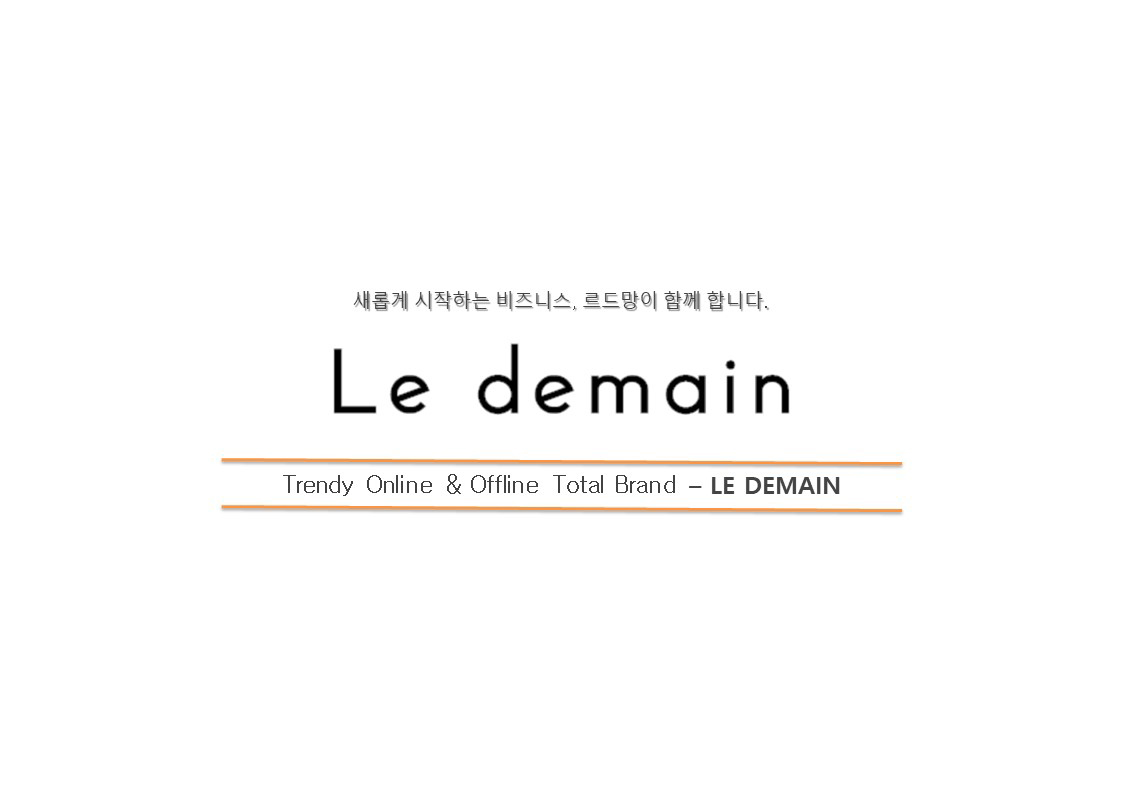
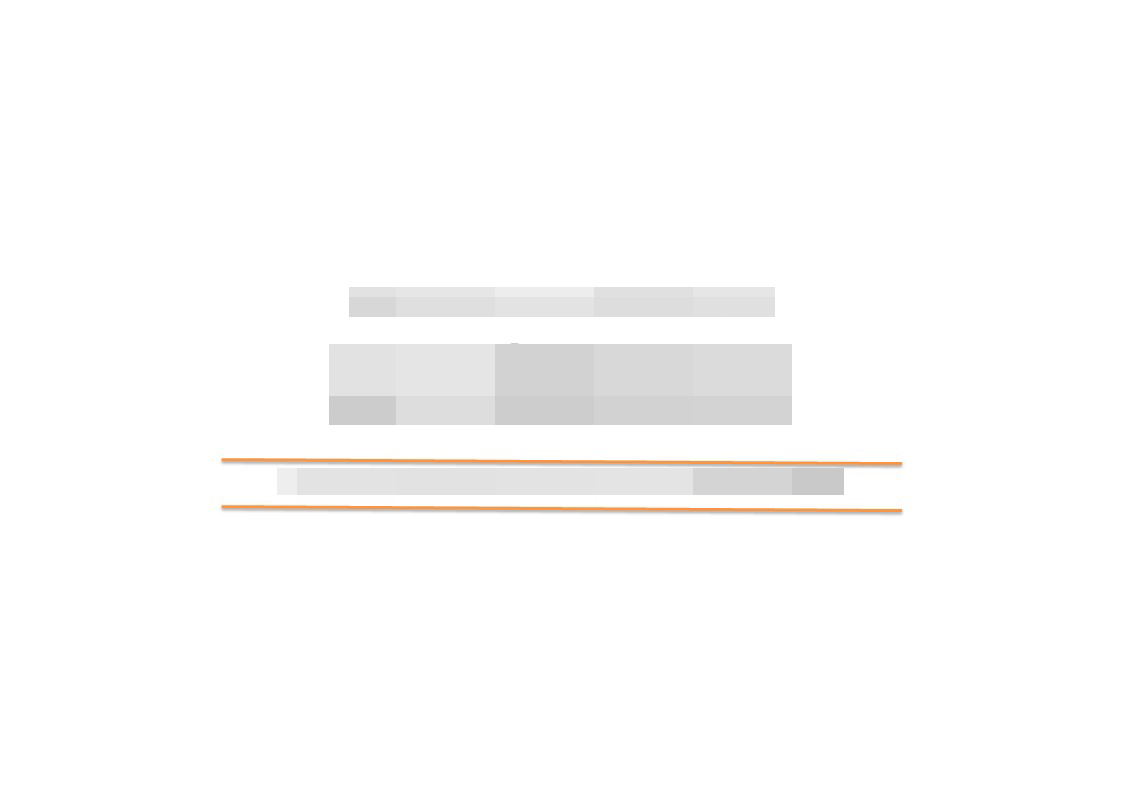
Add files via upload

Changed region(s): [[0.2805, 0.3627, 0.7168, 0.5441], [0.2493, 0.5743, 0.748, 0.6348]]

diff --git a/index.html b/index.html
@@ -2,7 +2,7 @@
 <html lang="ko-kr">
 <head>
 
-     <title>Le demain</title>
+     <title>XXX</title>
 <!--
 
 Eatery Cafe Template
@@ -16,9 +16,9 @@ http://www.templatemo.com/tm-515-eatery
      <meta name="keywords" content="">
      <meta name="author" content="">
      <meta name="viewport" content="width=device-width,initial-scale=1.0,maximum-scale=1">
-     <title>르드망 브로슈어</title>
-     <meta content="르드망" name="description" />
-     <meta property="og:title" content="르드망" />
+     <title>XXX 브로슈어</title>
+     <meta content="XXX" name="description" />
+     <meta property="og:title" content="XXX" />
 	   <meta property="og:description" content="TOTAL BRAND" />
      <meta property="og:image" content="images/ogmage.jpg">
 
@@ -57,12 +57,12 @@ http://www.templatemo.com/tm-515-eatery
                     </button>
 
                     <!-- lOGO TEXT HERE -->
-                    <a href="index.html" class="navbar-brand">Le demain<span>.</span> Shop & Shop </a>
+                    <a href="index.html" class="navbar-brand">XXX<span>.</span> Shop & Shop </a>
                </div>
 
                <!-- MENU LINKS -->
                <div class="phone_img">
-                             <a href="tel:07041706091">
+                             <a href="tel:01043975223">
                          		<img src="images/phone.png" alt="전화아이콘" style="height:30px;">
                          	</a>
               </div>
@@ -77,8 +77,8 @@ http://www.templatemo.com/tm-515-eatery
                     </ul>
 
                     <ul class="nav navbar-nav navbar-right">
-                         <li><a href="07041706091">Call us <i class="fa fa-phone"></i> 07041706091 </a></li>
-                         <a href="https://ledemain.co.kr" class="section-btn">Shop 둘러보기</a>
+                         <li><a href="01043975223">Call us <i class="fa fa-phone"></i> 01043975223 </a></li>
+                         <a href="http://dudwlsldia.dothome.co.kr/" class="section-btn">Shop 둘러보기</a>
                     </ul>
                </div>
 
@@ -96,7 +96,7 @@ http://www.templatemo.com/tm-515-eatery
                                    <div class="container">
                                         <div class="col-md-8 col-sm-12">
                                              <h3>Total Brand</h3>
-                                             <h1>Le demain<br/>Be loved Fashion</h1>
+                                             <h1>XXX<br/>Be loved Fashion</h1>
                                              <a href="#team" class="section-btn btn btn-default smoothScroll">Main</a>
                                         </div>
                                    </div>
@@ -107,7 +107,7 @@ http://www.templatemo.com/tm-515-eatery
                               <div class="caption">
                                    <div class="container">
                                         <div class="col-md-8 col-sm-12">
-                                             <h3>Le demain</h3>
+                                             <h3>XXX</h3>
                                              <h1>I like my money where I can see it<br/> - Carrie Brandshaw - </h1>
                                              <a href="#menu" class="section-btn btn btn-default smoothScroll">the other</a>
                                         </div>
@@ -131,11 +131,11 @@ http://www.templatemo.com/tm-515-eatery
                          <div class="about-info">
                               <div class="section-title wow fadeInUp" data-wow-delay="0.2s">
                                    <h4> COMPANY INTRODUCE </h4>
-                                   <h2> 르드망은 2018년 출범하였습니다.</h2>
+                                   <h2> XXX은 2018년 출범하였습니다.</h2>
                               </div>
 
                               <div class="wow fadeInUp" data-wow-delay="0.4s">
-                                   <p>.. 르드망은 예술의 도시 </p>
+                                   <p>.. XXX은 예술의 도시 </p>
                                    <p>.. 프랑스의 감성을 담은 말로 </p>
                                    <p>.. '내일' 이라는 의미이며 </p>
                                    <p>.. 그녀들의 내일을 위한 </p>
@@ -149,7 +149,7 @@ http://www.templatemo.com/tm-515-eatery
 
                     <div class="col-md-6 col-sm-12">
                          <div class="wow fadeInUp about-image" data-wow-delay="0.6s">
-                              <a href="https://ledemain.co.kr"><img src="images/about-image.jpg" class="img-responsive" alt=""></a>
+                              <a href="http://dudwlsldia.dothome.co.kr/"><img src="images/about-image.jpg" class="img-responsive" alt=""></a>
                          </div>
                     </div>
 
@@ -177,7 +177,7 @@ http://www.templatemo.com/tm-515-eatery
                                         <div class="team-item">
                                              <h4>Pickleball</h4>
                                              <ul class="social-icon">
-                                                  <li><a href="https://www.instagram.com/ledemain_official/" class="fa fa-linkedin-square"></a></li>
+                                                  <li><a href="https://www.instagram.com/jiniweb_official/" class="fa fa-linkedin-square"></a></li>
                                                   <li><a href="https://l6vne.channel.io" class="fa fa-envelope-o"></a></li>
                                              </ul>
                                         </div>
@@ -196,7 +196,7 @@ http://www.templatemo.com/tm-515-eatery
                                         <div class="team-item">
                                              <h4>JJURI1993 & CON SK</h4>
                                              <ul class="social-icon">
-                                                  <li><a href="https://www.instagram.com/ledemain_official/" class="fa fa-linkedin-square"></a></li>
+                                                  <li><a href="https://www.instagram.com/jiniweb_official/" class="fa fa-linkedin-square"></a></li>
                                                   <li><a href="https://l6vne.channel.io" class="fa fa-envelope-o"></a></li>
                                              </ul>
                                         </div>
@@ -215,7 +215,7 @@ http://www.templatemo.com/tm-515-eatery
                                         <div class="team-item">
                                              <h4>erthewghwg</h4>
                                              <ul class="social-icon">
-                                                  <li><a href="https://www.instagram.com/ledemain_official/" class="fa fa-linkedin-square"></a></li>
+                                                  <li><a href="https://www.instagram.com/jiniweb_official/" class="fa fa-linkedin-square"></a></li>
                                                   <li><a href="https://l6vne.channel.io" class="fa fa-envelope-o"></a></li>
                                              </ul>
                                         </div>
@@ -311,7 +311,7 @@ http://www.templatemo.com/tm-515-eatery
 
                     <div class="col-md-12 col-sm-12">
                          <div class="section-title wow fadeInUp" data-wow-delay="0.1s">
-                              <h2>르드망은?</h2>
+                              <h2>XXX은?</h2>
                          </div>
                     </div>
 
@@ -320,23 +320,23 @@ http://www.templatemo.com/tm-515-eatery
                               <div class="item">
                                    <p>예술의 도시 프랑스의 감성을 담은 말로 ‘내일’ 이라는 의미이며, 그녀들의 내일을 위한 디자인이라는 테마로 편안하면서 감성적인 Easy Look Style의 여성복 전문 브랜드가 되고자 노력하고 있습니다.</p>
                                         <div class="tst-author">
-                                             <h4>le demain</h4>
+                                             <h4>XXX</h4>
 
                                         </div>
                               </div>
 
                               <div class="item">
-                                   <p>르드망이 제안하는 일상 속 Life Style로 우리 있었던 아름다운 순간들을 기억하고, 더욱 아름다운 ‘내일‘ 을 살아 갈 수 있도록 노력하겠습니다.</p>
+                                   <p>XXX이 제안하는 일상 속 Life Style로 우리 있었던 아름다운 순간들을 기억하고, 더욱 아름다운 ‘내일‘ 을 살아 갈 수 있도록 노력하겠습니다.</p>
                                         <div class="tst-author">
-                                             <h4>Le demain</h4>
+                                             <h4>XXX</h4>
 
                                         </div>
                               </div>
 
                               <div class="item">
-                                   <p>자사 대표의 다양한 도전과 경험에 빗대어 이루어진 성공 노하우를 보유한 르드망은 여성복 및 아동복 등 트렌디 의류뿐 아니라 잡화, 패션 악세서리까지 모든 카테고리의 상품을 제공하고 있습니다.</p>
+                                   <p>자사 대표의 다양한 도전과 경험에 빗대어 이루어진 성공 노하우를 보유한 XXX은 여성복 및 아동복 등 트렌디 의류뿐 아니라 잡화, 패션 악세서리까지 모든 카테고리의 상품을 제공하고 있습니다.</p>
                                         <div class="tst-author">
-                                             <h4>Le demain</h4>
+                                             <h4>XXX</h4>
 
                                         </div>
                               </div>
@@ -393,7 +393,7 @@ http://www.templatemo.com/tm-515-eatery
                                    <h2 class="wow fadeInUp" data-wow-delay="0.2s">Location</h2>
                               </div>
                               <address class="wow fadeInUp" data-wow-delay="0.4s">
-                                   <p> <a href="http://naver.me/G2H31PRS"> Sokcho-si, Gangwon-do, Republic of Korea<br>  2F ledemain 21, Seonsa-ro 5-gil</a></p>
+                                   <p> <a href="http://naver.me/G2H31PRS"> Sokcho-si, Gangwon-do, Republic of Korea<br>  2F jiniweb 21,</a></p>
                               </address>
                          </div>
                     </div>
@@ -404,10 +404,10 @@ http://www.templatemo.com/tm-515-eatery
                                    <h2 class="wow fadeInUp" data-wow-delay="0.2s">Order,Reservation</h2>
                               </div>
                               <address class="wow fadeInUp" data-wow-delay="0.4s">
-                                   <p> <a href="tel:07041706091"><font color=blue>070-4170-6091</font></a> |  <a href="tel:07041706091"><font color=blue>070-4170-6091</font></a></p>
-                                   <p><a href="mailto:riddle88@naver.com"><font color=red>riddle88@naver.com</font></a></p>
-                                   <p>아래링크를 <font color=red>클릭</font>하면 사이트로 이동합니다.<br/><a href="https://ledemain.co.kr">Homepage : <font color=blue>Le demain</font></a></p>
-                                   <p><a href="https://www.instagram.com/ledemain_official/">Instagram : <font color=blue>ledemain_official</font></a></p>
+                                   <p> <a href="tel:01043975223"><font color=blue>010-4397-5223</font></a> |  <a href="tel:01043975223"><font color=blue>010-4397-5223</font></a></p>
+                                   <p><a href="mailto:dudwlsldia@naver.com"><font color=red>dudwlsldia@naver.com</font></a></p>
+                                   <p>아래링크를 <font color=red>클릭</font>하면 사이트로 이동합니다.<br/><a href="http://dudwlsldia.dothome.co.kr/">Homepage : <font color=blue>XXX</font></a></p>
+                                   <p><a href="https://www.instagram.com/jiniweb_official/">Instagram : <font color=blue>jiniweb_official</font></a></p>
                               </address>
                          </div>
                     </div>
@@ -433,14 +433,14 @@ http://www.templatemo.com/tm-515-eatery
 
                     <div class="col-md-2 col-sm-4">
                          <ul class="wow fadeInUp social-icon" data-wow-delay="0.4s">
-                              <li><a href="https://www.facebook.com/Ledemain-837806513243865" class="fa fa-facebook-square" attr="facebook icon"></a></li>
+                              <li><a href="https://www.facebook.com/jiniweb-837806513243865" class="fa fa-facebook-square" attr="facebook icon"></a></li>
                               <li><a href="https://www.youtube.com/channel/UCIX0AUekq2W-Yg9xRauFuaw" class="fa fa-youtube"></a></li>
-                              <li><a href="https://www.instagram.com/ledemain_official/" class="fa fa-instagram"></a></li>
+                              <li><a href="https://www.instagram.com/jiniweb_official/" class="fa fa-instagram"></a></li>
                               <li><a href="https://twitter.com/" class="fa fa-twitter"></a></li>
                          </ul>
 
                          <div class="wow fadeInUp copyright-text" data-wow-delay="0.8s">
-                              <p><br>Simplicity is the keynote of all true elegance<br>Le demain</p>
+                              <p><br>Simplicity is the keynote of all true elegance<br>XXX</p>
                          </div>
                     </div>
 
